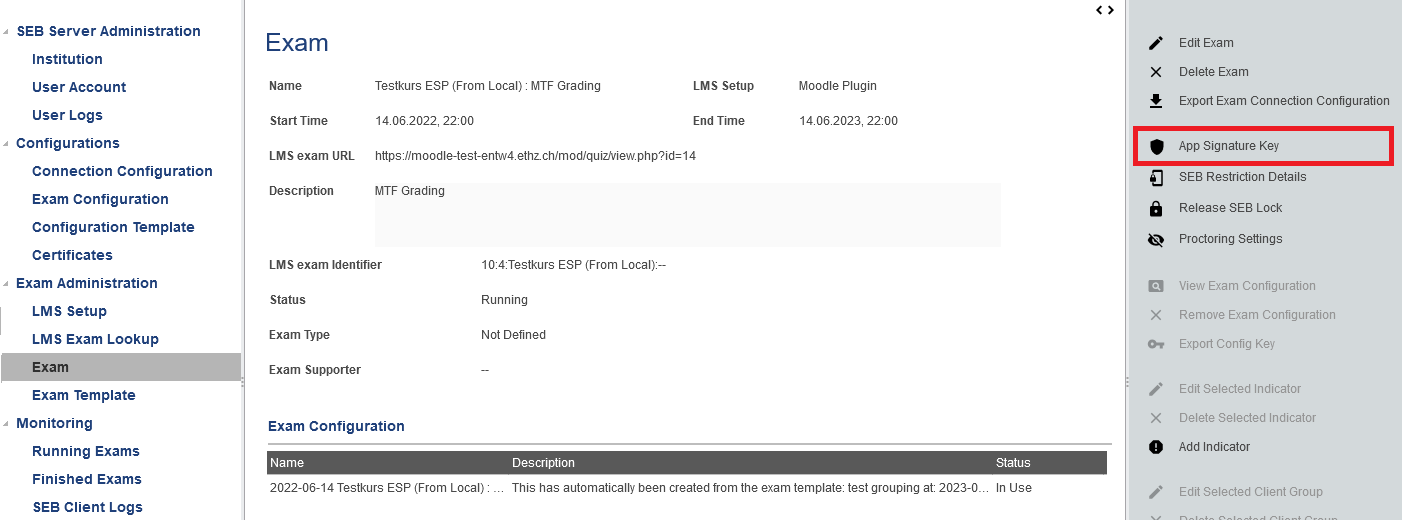
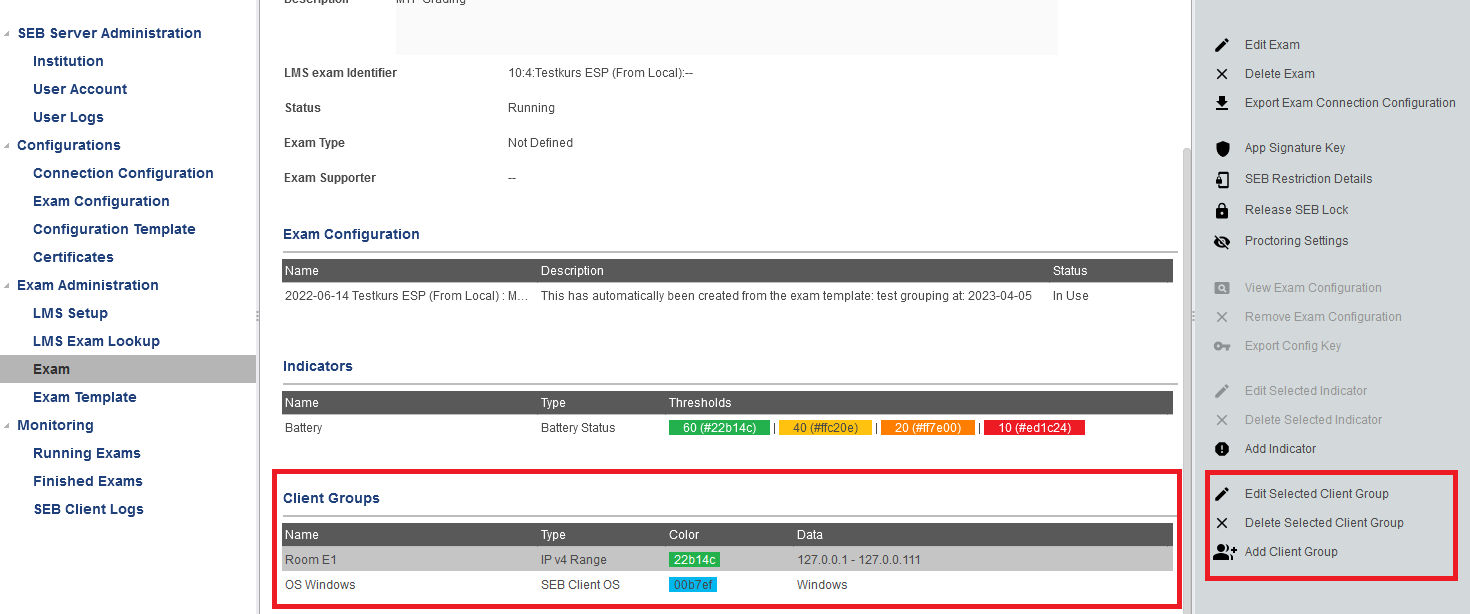
docu client groups

diff --git a/docs/exam_clientgroups.rst b/docs/exam_clientgroups.rst
@@ -3,5 +3,84 @@
 SEB Client Groups
 =================
 
-SEB client groups are a new feature since SEB Server 1.5 release and allows to group SEB client connection to specified groups that are
-graphically tagged in an exam monitoring view and can be shown or hided by usual filter on the exam monitoring view.
+SEB client groups are a new feature since SEB Server 1.5 release and allows you to group SEB client connection to specified groups that are
+graphically tagged in the exam monitoring view and can be shown or hided by usual filter on the exam monitoring view. Currently there are
+two different group types to group up SEB clients or SEB users, one is the the IP-Address (Internet Protocol Address) group and a second one
+is the SEB OS (Operating System) grouping.
+
+With the IP-Address grouping type you are able to create group SEB clients/users by an IP-Address range. You can make different groups out of
+different IP-Address ranges (that ideally not overlap each other) and give them dedicated colors for identification. This group type is useful for example
+if your infrastructure is dedicated to exam-rooms with given (W)LAN and static IP-Address ranges for that rooms. In this case you can map the rooms
+to SEB groups by the IP Address range of that room and therefore are able to monitor you exam per room. 
+
+With the SEB OS grouping type you are able to group SEB clients/users by the type of the operating system of the device that is used to apply to an exam
+with SEB. This is useful if you want to monitor and support your exam and participants by operating system type what make sense since support might be different
+for different operating system.
+
+.. note:: 
+    Since the grouping is as flexible as possible, it might be that a SEB user applies to no, one ore many groups. For example if you combine the above
+    described grouping type for IP ranges and SEB OS then one SEB user will apply to a certain IP range group type and also to a certain SEB OS group type.
+    This is possible and will also be displayed respectively within the monitoring view. 
+    
+**Setup SEB Client Grooups**
+
+SEB client groups can be set up with the Exam view on SEB Server. Additionally it is also possible to pre-define SEB client groups for Exam Templates that
+would be applied to an Exam while import with template as usual. Creating and managing SEB client groups for Exam Templates is exactly the same as for Exams.
+
+Client groups are located on an Exam setup page after the indicators at the end of the page.
+
+.. image:: images/exam/examClientgroupAdd.png
+    :align: center
+    :target: https://raw.githubusercontent.com/SafeExamBrowser/seb-server/master/docs/images/exam/examClientgroupAdd.png
+
+To add a new SEB Client Group use the respective action from the right action pane. You will be presented with the SEB Client Group edit page
+where you are able to give the new SEB Client Group a name and choose a type of the client group that you want to create.
+You can also choose a color that is applied in the monitoring view within the "Client Group" column where all client groups that matches a 
+specified SEB client connection are displayed.
+
+When you select the type of the SEB Client Group you want to create, other type specific inputs will appear together with a short description of
+the group type. With the additional, specific inputs, the SEB Client Group can be specified further and finally be saved and applied to the Exam.
+
+.. image:: images/exam/examClientgroupIP.png
+    :align: center
+    :target: https://raw.githubusercontent.com/SafeExamBrowser/seb-server/master/docs/images/exam/examClientgroupIP.png
+    
+For the IP range group type you can give a valid IP range defined with a start IP address and an end IP address. This two inputs are mandatory 
+and must be valid IPv4 addresses. The range must be a valid range and will be inclusive on the IP match (range-start >= IP <= range-end).
+
+For the SEB OS grouping type you have to choose the OS type from the given types that are available to specify the client group.
+
+.. image:: images/exam/examClientgroupWin.png
+    :align: center
+    :target: https://raw.githubusercontent.com/SafeExamBrowser/seb-server/master/docs/images/exam/examClientgroupWin.png
+    
+If you have finished up your SEB Client Group definition you can save it with the "Save" action from the right action pane or cancel the modifications and
+go back to the Exam page. You will see your created SEB Client Groups within its respective section on the Exam page and are able to edit them again, or delete
+a certain SEB Client group from the list.
+
+.. image:: images/exam/examClientgroups.png
+    :align: center
+    :target: https://raw.githubusercontent.com/SafeExamBrowser/seb-server/master/docs/images/exam/examClientgroups.png
+    
+**Monitoring with SEB Client Groups**
+
+When SEB groups are defined within your exam, you will find the SEB groups also in your monitoring view of the running exam. In the additional column
+named "Client Groups(s)" after "User Name or Session", you will see the applied SEB client groups of each SEB connection. This can be none, one ore more
+depending on what group(s) a particular SEB applies to. 
+
+.. image:: images/exam/examClientgroupMonitoring1.png
+    :align: center
+    :target: https://raw.githubusercontent.com/SafeExamBrowser/seb-server/master/docs/images/exam/examClientgroupMonitoring1.png
+
+With the "Client Group Filter" on the right action pane, you are able to show/hide individual groups. With this filtering you can adapt your monitoring view
+for specialized monitoring view, to only see SEB client connection from one particular room for example or of one particular client OS.
+
+.. note:: 
+    For the Client Group Filter, show has always the higher priority. Since a SEB client can apply to more then one group, all groups that a SEB client
+    belongs to has to be hiden (filter) before the SEB client connection is hided from the monitoring view. So if you have two different group types like
+    in the example, where a SEB client can belong to Room E1 as well as belong to Windows OS, both groups must be hidden to hide the client connection.
+    If only Windows is hidden but Room E1 not, the SEB client connection will still be shown since it belongs to at least one group that is not hided.
+
+.. image:: images/exam/examClientgroupMonitoring2.png
+    :align: center
+    :target: https://raw.githubusercontent.com/SafeExamBrowser/seb-server/master/docs/images/exam/examClientgroupMonitoring2.png
